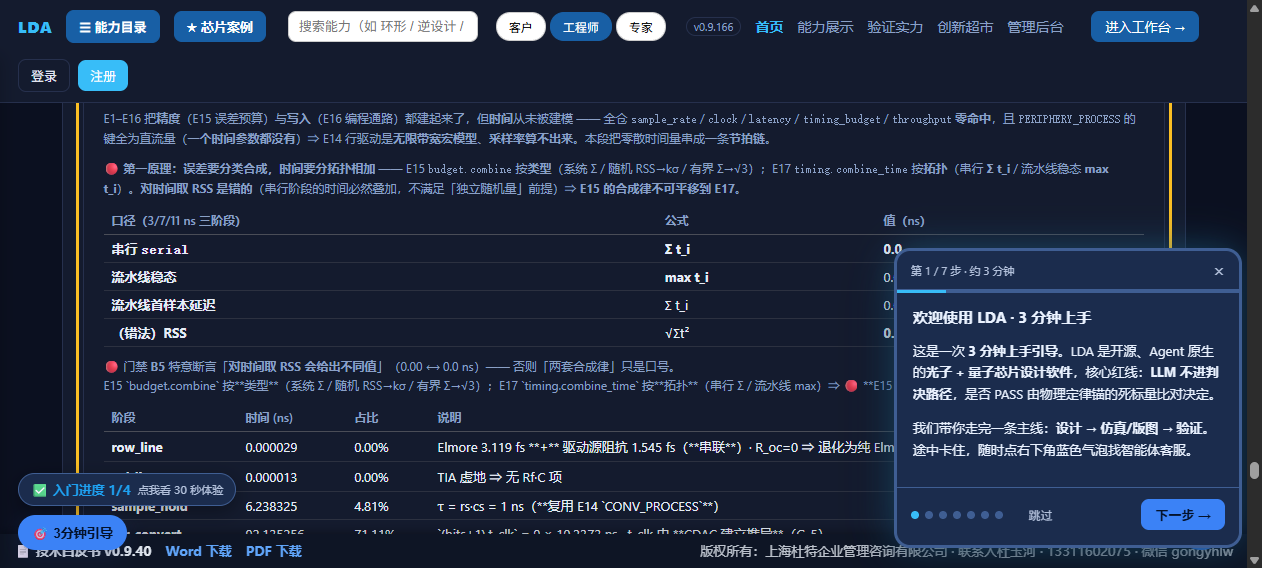
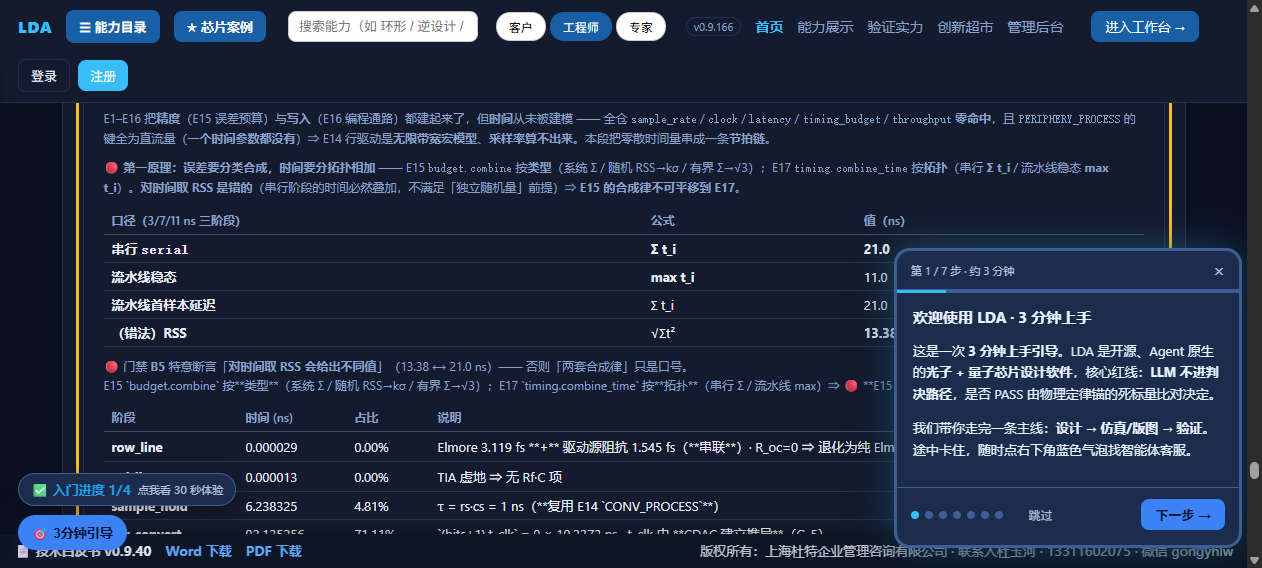
docs(acceptance): 验收操作卡升至 E1–E17（v0.9.166）+ E17 面板生产实测截图
操作卡陈旧口径回扫（收官铁律第 5 次生效）：
 v0.9.160 → v0.9.166 · E1–E14 → E1–E17 · 13 段 → 16 段 · 303 判据 → 376 · 64 探针 → 82 ·
 模块 18 → 21 · gaps 14 → 18（末条 G-R）· 命令核对预期同步（+ entrypoints=19 /
 device_timing.totals.serial_ns=129.565246）。
新增「第 8 项」验收项：E17 面板的合成律对照 / 五阶段 / 规模×时间 / 交叉点 / 位数交叉。
新增 shotD_e17_panel.png（生产 v0.9.166 · agent-browser 实测 · 修复后重截，
合成律三格已正确显示 21.0 / 11.0 / 21.0 ns · RSS 13.38）。

diff --git a/docs/acceptance/LDA_验收操作卡_入口可达性.html b/docs/acceptance/LDA_验收操作卡_入口可达性.html
@@ -3,7 +3,7 @@
 <head>
 <meta charset="utf-8">
 <meta name="viewport" content="width=device-width,initial-scale=1">
-<title>LDA 上机验收操作卡 · 电子计算芯片案例（v0.9.160）</title>
+<title>LDA 上机验收操作卡 · 电子计算芯片案例（v0.9.166 · E1–E17）</title>
 <style>
   :root{--bg:#f7f9fc;--card:#fff;--line:#e3e8ef;--txt:#1f2937;--mut:#6b7280;--acc:#185FA5;--warn:#b45309;--ok:#0f6e56}
   *{box-sizing:border-box}
@@ -36,7 +36,7 @@
 
   <h1>LDA 上机验收操作卡 · 电子计算芯片案例</h1>
   <div class="sub">
-    版本 <b>v0.9.160</b> · 生产 <code>https://lda.weomnitech.com.cn</code> · 本卡所有路径与截图
+    版本 <b>v0.9.166</b> · 征程 <b>E1–E17（16 段）</b> · 生产 <code>https://lda.weomnitech.com.cn</code> · 本卡所有路径与截图
     <b>均为实测</b>（agent-browser 真实打开生产站点逐步骤跑通后截取）
   </div>
 
@@ -93,13 +93,13 @@
       <span class="badge" style="background:#0f6e56;color:#eafff7;border-color:#0f6e56">光量子计算芯片</span>
       <span class="badge" style="background:#0f6e56;color:#eafff7;border-color:#0f6e56">超导量子计算芯片</span>
       <span class="badge" style="background:#0f6e56;color:#eafff7;border-color:#0f6e56">光计算芯片</span>
-      <span class="badge" style="background:#fbbf24;color:#1a1205;border-color:#fbbf24;font-weight:700">★ 电子计算芯片（E1–E14）</span>
+      <span class="badge" style="background:#fbbf24;color:#1a1205;border-color:#fbbf24;font-weight:700">★ 电子计算芯片（E1–E17）</span>
     </div>
   </div>
   <div class="step">
     <div class="num">3</div>
     <div class="body">
-      点最右边那个<b>黄色的「★ 电子计算芯片（E1–E14）」</b> —— 页面会<b>自动跳到卡片、黄色描边高亮、并自动跑出结果</b>。
+      点最右边那个<b>黄色的「★ 电子计算芯片（E1–E17）」</b> —— 页面会<b>自动跳到卡片、黄色描边高亮、并自动跑出结果</b>。
     </div>
   </div>
   <img src="shotA_home_direct.png" alt="首屏：顶部高亮入口 + 第一行芯片案例直达条">
@@ -141,14 +141,18 @@
   <img src="shotB_landed.png" alt="落地后的电子计算芯片案例卡片与摘要">
   <table>
     <tr><th style="width:46px">#</th><th style="width:250px">看哪里</th><th>应该看到</th></tr>
-    <tr><td>1</td><td>页面顶部最右</td><td>版本号 <b>v0.9.160</b></td></tr>
-    <tr><td>2</td><td>首屏第一行</td><td>「★ 芯片案例直达：…」四个彩色按钮，含黄色的<b>「★ 电子计算芯片（E1–E14）」</b></td></tr>
+    <tr><td>1</td><td>页面顶部最右</td><td>版本号 <b>v0.9.166</b></td></tr>
+    <tr><td>2</td><td>首屏第一行</td><td>「★ 芯片案例直达：…」四个彩色按钮，含黄色的<b>「★ 电子计算芯片（E1–E17）」</b></td></tr>
     <tr><td>3</td><td>点完之后卡片顶部</td><td>标题「<b>★ 电子计算芯片案例（模拟计算核 / MVM 交叉阵列）</b>」完整可见（不被顶部导航压住）</td></tr>
     <tr><td>4</td><td>卡片边框</td><td>一圈<b>黄色描边</b>（表示你就是从入口跳过来的）</td></tr>
-    <tr><td>5</td><td>蓝色摘要行</td><td>判决 <b>DESIGN_VERIFIED</b>（设计期验证）· 征程 <b>13 段</b> · 门禁 <b>303 判据</b>（含 64 探针）· 模块 <b>18</b></td></tr>
-    <tr><td>6</td><td>卡片正文（hint）</td><td><b>E1–E14 全链</b> → 最后一项是 <b>E14 真 DAC / ADC / 行驱动外设</b></td></tr>
-    <tr><td>7</td><td>页面下半（继续滚）</td><td>能展开看到 E1–E14 的分段结果表、诚实边界表</td></tr>
+    <tr><td>5</td><td>蓝色摘要行</td><td>判决 <b>DESIGN_VERIFIED</b>（设计期验证）· 征程 <b>16 段</b> · 门禁 <b>376 判据</b>（含 82 探针）· 模块 <b>21</b></td></tr>
+    <tr><td>6</td><td>卡片正文（hint）</td><td><b>E1–E17 全链</b> → 最后一项是 <b>E17 时序 / 时钟预算链</b>（8×8 每样本 129.565 ns ⇒ 7.7181 MSa/s）</td></tr>
+    <tr><td>7</td><td>页面下半（继续滚）</td><td>能展开看到 E1–E17 的分段结果表、诚实边界表（共 <b>18</b> 条，末条 <b>G-R</b>）</td></tr>
+    <tr><td>8</td><td><b>实测参考</b>（见下方截图）</td><td>「<b>时序 / 时钟预算链（E17 · 时间维度上的 E15）</b>」面板：合成律对照（<b>21.0 / 11.0 / 21.0 ns</b> · RSS 13.38 ← 错法）+ 五阶段（SAR <b>71.11%</b>）+ <b>N 8→1024 阵列 τ 跨 12556× 而每样本只跨 1.00469×</b> + 交叉点 N≈4238 + 位数交叉</td></tr>
   </table>
+
+  <p style="font-size:13.5px;color:#6b7280;margin:14px 0 4px">以下为「第 8 项」的实测截图（生产 <code>v0.9.166</code> · <code>agent-browser</code> 真实抓取）：</p>
+  <img src="shotD_e17_panel.png" alt="E17 时序 / 时钟预算面板（生产实测）">
 
   <h3>可选：不想点页面，用一条命令核对</h3>
   <p style="font-size:14px">把下面整段粘进 Windows 终端（PowerShell），会打印案例卡的关键字段：</p>
@@ -157,8 +161,8 @@
 "span    : 段=$($r.span.gate_checks) 判据 探针=$($r.span.probe_checks) 模块=$($r.span.modules)"
 "verdict : " + $r.verdict
 "gaps    : " + $r.gaps_total + " 条（末条 = " + $r.gaps[-1].id + "）"</pre>
-  <p style="font-size:14px">预期输出要点：<code>case_id</code> 含 <b>E1–E14 全链</b>；<code>verdict</code> = <b>DESIGN_VERIFIED</b>；
-  <code>span</code> 里 <b>gate_checks=303</b>、<b>probe_checks=64</b>、<b>modules=18</b>；<code>gaps</code> = <b>14</b> 条。</p>
+  <p style="font-size:14px">预期输出要点：<code>case_id</code> 含 <b>E1–E17 全链</b>；<code>verdict</code> = <b>DESIGN_VERIFIED</b>；
+  <code>span</code> 里 <b>gate_checks=376</b>、<b>probe_checks=82</b>、<b>modules=21</b>、<b>entrypoints=19</b>；<code>gaps</code> = <b>18</b> 条（末条 <b>G-R</b>）；<code>device_timing.totals.serial_ns</code> = <b>129.565246</b>。</p>
 
   <h2>四、对不上时，请发我这三样</h2>
   <table>
@@ -186,13 +190,13 @@
     <p style="margin:0">
       ⑤ 底部版权条仍显示「技术白皮书 v0.9.40」—— 这是<b>白皮书文件自己的版本</b>
       （<code>static/</code> 内实际文件即 <code>lda_whitepaper_v0.9.40.docx/pdf</code>），
-      与平台版本号 <code>v0.9.160</code> 是两回事，非笔误；若需统一口径请告知。
+      与平台版本号 <code>v0.9.166</code> 是两回事，非笔误；若需统一口径请告知。
     </p>
   </div>
 
   <div class="foot">
     LDA · 开源 Agent-native 光 / 量 / 电子 EDA（MIT）<br>
-    上机验收操作卡 · 入口可达性修复（v0.9.160）· 本卡路径与截图均为生产实测
+    上机验收操作卡 · 入口可达性修复（v0.9.160）→ 口径升 E1–E17（v0.9.166）· 本卡路径与截图均为生产实测
   </div>
 
 </div>
